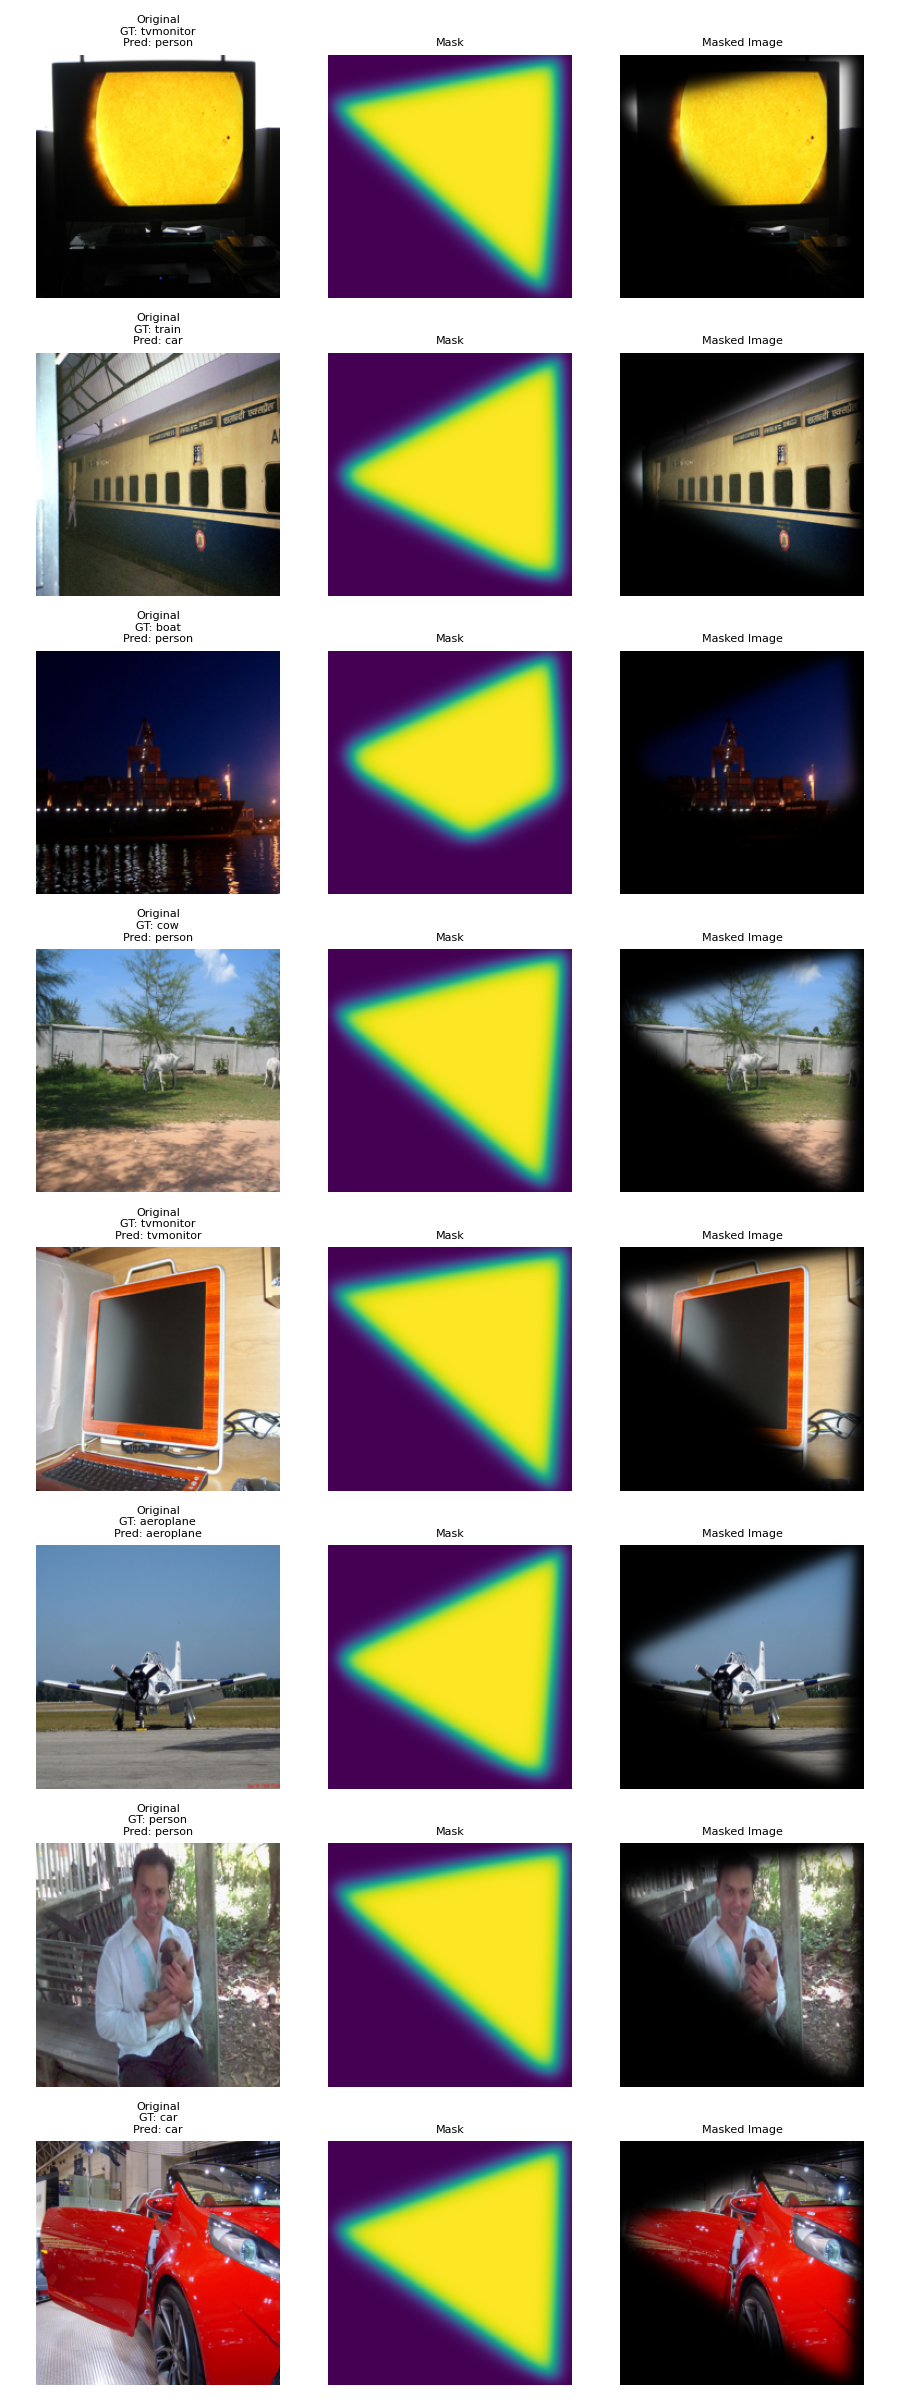
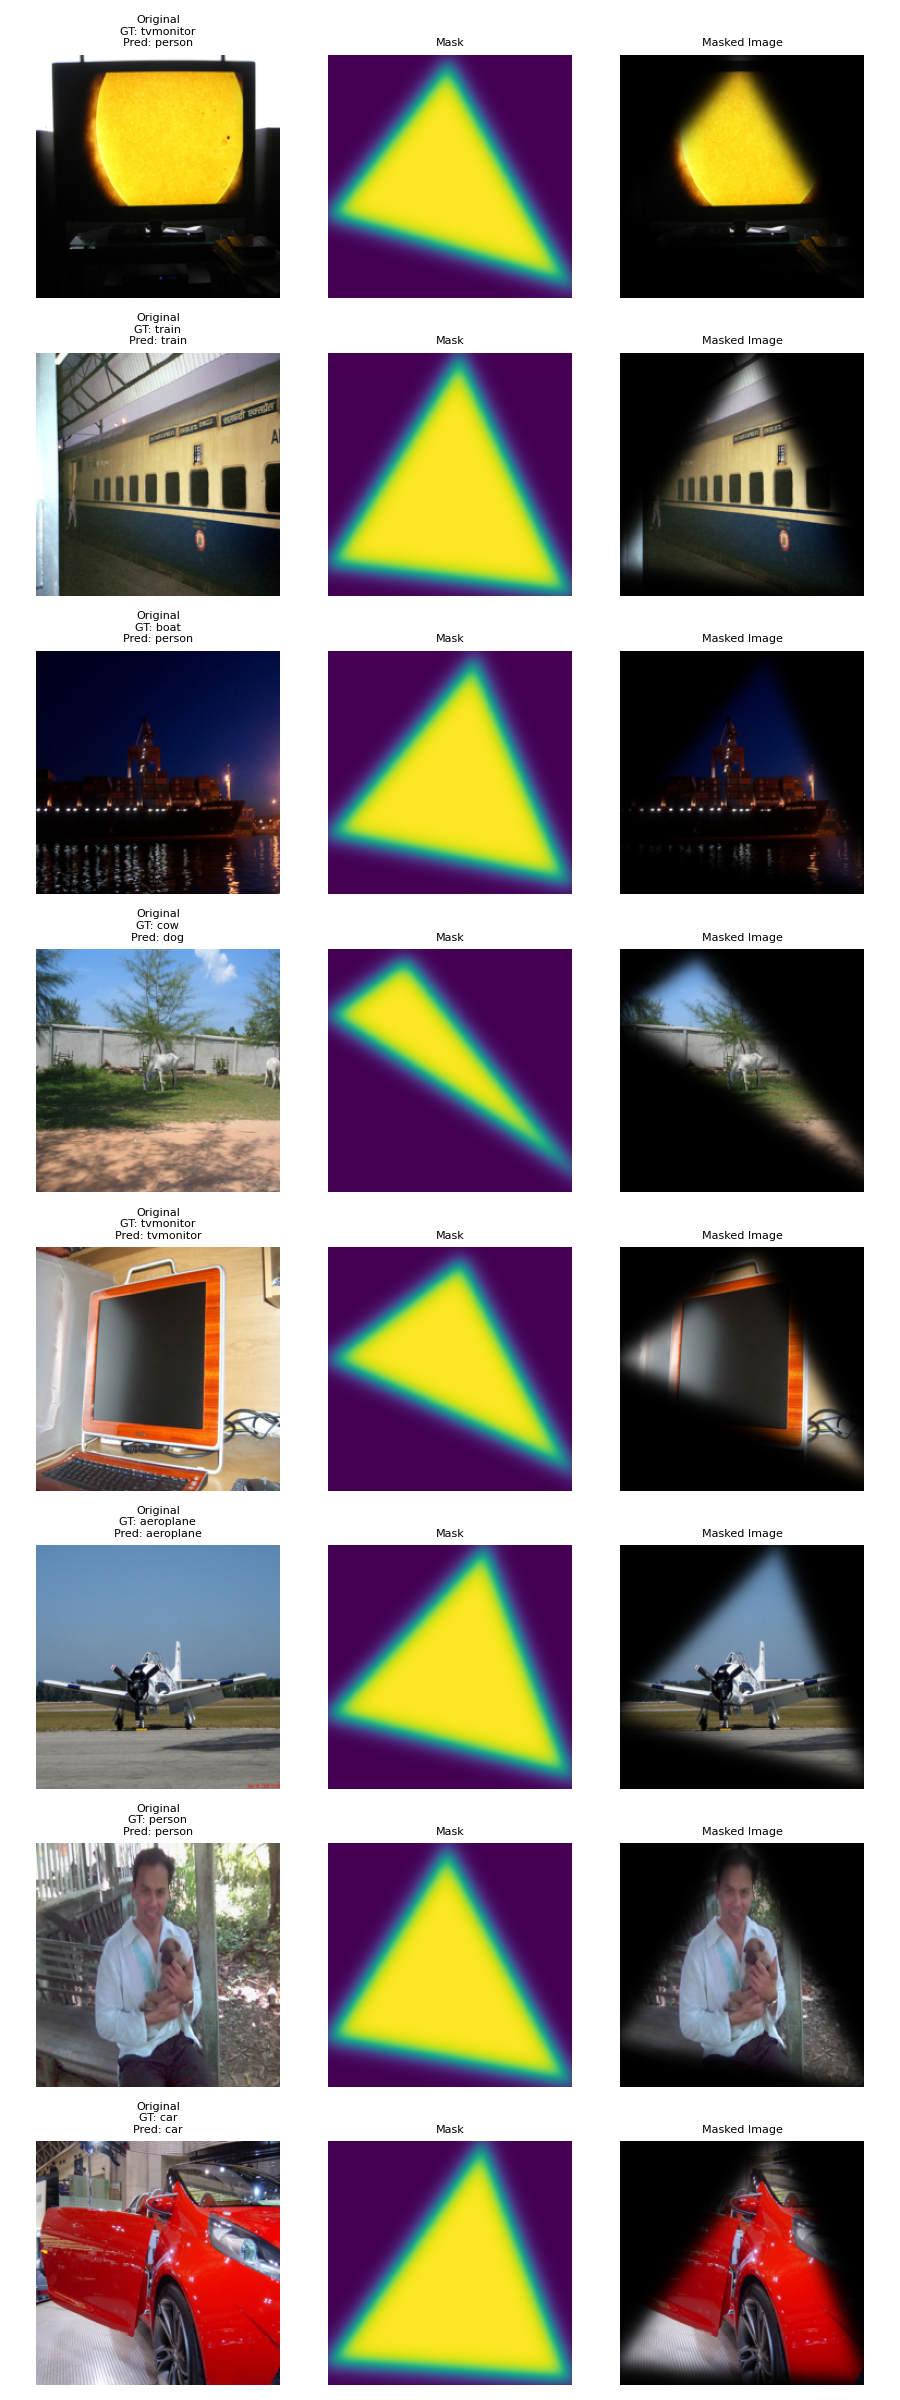
triangle

diff --git a/train4.py b/train4.py
@@ -48,15 +48,15 @@ def soft_box_mask(boxes, H=IMG_SZ, W=IMG_SZ, k=SOFT_K):
     return left*right*top*bottom   # (B,1,H,W)
 
 # ---------------------  MODEL PARTS ---------------------------
-def build_bbox_head():
-    m = torchvision.models.resnet18(weights='IMAGENET1K_V1')
-    m.fc = nn.Sequential(nn.Linear(m.fc.in_features,16), nn.Sigmoid())
-    return m
+# def build_bbox_head():
+#     m = torchvision.models.resnet18(weights='IMAGENET1K_V1')
+#     m.fc = nn.Sequential(nn.Linear(m.fc.in_features,16), nn.Sigmoid())
+#     return m
 
-def build_class_head():
-    m = torchvision.models.resnet50(weights='IMAGENET1K_V1')
-    m.fc = nn.Linear(m.fc.in_features, NUM_CLS)
-    return m
+# def build_class_head():
+#     m = torchvision.models.resnet50(weights='IMAGENET1K_V1')
+#     m.fc = nn.Linear(m.fc.in_features, NUM_CLS)
+#     return m
 
 class BoxClassNet(nn.Module):
     def __init__(self, lam=LAMBDA, mu=0.5, sigma=0.5):
@@ -65,12 +65,21 @@ class BoxClassNet(nn.Module):
         backbone = torchvision.models.resnet50(weights='IMAGENET1K_V1')
         self.backbone = nn.Sequential(*list(backbone.children())[:-1])  # upto GAP
         feat_dim = 2048
+
+        # -------------------------------------------------
+        # 1) Freeze the backbone weights and BN statistics
+        # -------------------------------------------------
+        for p in self.backbone.parameters():
+            p.requires_grad = False          # no gradient
+
+        self.backbone.eval()                 # no BN running-stat updates
+        # (we will call it under torch.no_grad() in forward())
         #
         # 2. heads
         #
         self.bbox = nn.Sequential(
             nn.Flatten(),                          # GAP output is B×2048×1×1
-            nn.Linear(feat_dim, 14),
+            nn.Linear(feat_dim, 6),
             nn.Sigmoid()
         )
         self.cls  = nn.Sequential(
@@ -84,11 +93,9 @@ class BoxClassNet(nn.Module):
     def forward(self,x,targets=None, save=True):
         feat1 = self.backbone(x) 
         boxes = self.bbox(feat1)
-        boxes = boxes.reshape(x.shape[0], 7,2)   # or x.view(2, 8)
+        boxes = boxes.reshape(x.shape[0], 3,2)   # or x.view(2, 8)
         x_m, mask  = mask_polygon(img=x,vertices= boxes, return_mask=True)          
-        feat2 = self.backbone(x_m) 
-        logits= self.cls(feat2)
-        logits2= self.cls(feat1)
+        logits= self.cls(self.backbone(x_m) )
         if save:
                 save_image(x_m, 'batch_output_croped.png', nrow=8, padding=2, normalize=True)                        # masked image
                 save_image(x, 'batch_output_original.png', nrow=8, padding=2, normalize=True)      
@@ -98,9 +105,9 @@ class BoxClassNet(nn.Module):
             return logits, x_m, mask
   
         ce = F.cross_entropy(logits,targets)
-        ce3 = F.cross_entropy(logits2,targets)
         area = area_from_mask(mask)
-        loss=ce+ce3 + 1/(area * (1 - area)) + (area)
+        loss=ce + (area)*(area)
+        #1/((1 - area)) + 1/((area))+
         #print(f"box loss {boxloss}, ce loss{ce}, area {area}")
         return loss,logits,x_m, mask
 
@@ -200,8 +207,12 @@ def evaluate(model,loader):
 def main():
     torch.manual_seed(0)
     net = BoxClassNet().to(DEVICE)
-    opt = torch.optim.AdamW(net.parameters(),lr=LR,weight_decay=1e-4)
-    sched= torch.optim.lr_scheduler.CosineAnnealingLR(opt,T_max=EPOCHS)
+
+    opt = torch.optim.Adam(           # or SGD, etc.
+            filter(lambda p: p.requires_grad, net.parameters()),
+            lr = LR)
+
+    sched = torch.optim.lr_scheduler.StepLR(opt, step_size=10, gamma=0.1)
 
     for ep in range(1,EPOCHS+1):
         t0=time.time(); run=0
